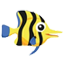
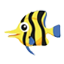
Pecera v0.0.2 - Fixing head  orientation for each fish

diff --git a/Pecera/pez.js b/Pecera/pez.js
@@ -9,8 +9,6 @@ class Pez {
         this.location = createVector(random(0,width),random(0,height));
         this.velocity = createVector();
         this.acceleration = createVector();
-        this.angle = 0;
-        this.headOrientation = 1;
         
         this.imgPez = imgsPeces[this.name];
         this.historyLocation;
@@ -28,11 +26,9 @@ class Pez {
         
         fill(this.color.r, this.color.g, this.color.b);
         translate(this.location.x, this.location.y); //this translate all the canvas
-        rotate(this.angle) // this rotate all the canvas
         imageMode(CENTER); 
         scale(this.headOrientation, 1);
         image(this.imgPez, 0, 0); // Print the image on x:0 and y:0 from translated and rotated canvas
-        
         
         //circle(this.location.x, this.location.y, this.radius);
         //rectMode(CENTER)
@@ -87,20 +83,20 @@ class Pez {
         }
     }
 
-    headOrientation(){
-        var posX = Math.ceil(this.location.x);
+    getOrientation(){
+        var actualPosX = Math.ceil(this.location.x);
         
-        if (this.historyLocation == ''){
-            this.historyLocation = posX;
+        if (this.historyLocation == undefined){
+            this.historyLocation = actualPosX;
         }
         
-        console.log(posX, this.historyLocation)
-        if (posX <= this.historyLocation) {
-            this.angle = 0;
-        } else {
-            this.angle = 180;
+        if (actualPosX < this.historyLocation) {
+            this.headOrientation = 1;
+        } 
+        if (actualPosX > this.historyLocation) {
+            this.headOrientation = -1;
         }
-        this.historyLocation = posX;
+        this.historyLocation = actualPosX;
     }
 
     keyboardControl(){

diff --git a/Pecera/sketch.js b/Pecera/sketch.js
@@ -11,7 +11,7 @@ var pecesArr = [];
 var bubblesArr = [];
 var world = {};
 var cantPeces = 15;
-var cantBubbles = 50;
+var cantBubbles = 80;
 
 // Precarga de imagenes
 var backgroundImage;
@@ -33,7 +33,7 @@ function setup(){
     canvasW = ratioObj.width;
 
     createCanvas(canvasW, canvasH);
-    
+
     background(51);
 
     angleMode(DEGREES);
@@ -64,6 +64,7 @@ function draw(){
         pecesArr[i].applyForce(createVector(0, map(random(0,100), 0 , 100, -0.02, 0.02)));
         pecesArr[i].applyForce(createVector(map(random(0,100), 0 , 100, -0.09, 0.09), 0));
         pecesArr[i].edgesBounce();
+        pecesArr[i].getOrientation();
         //pecesArr[i].edgesInfinite();
         pecesArr[i].update();
         pecesArr[i].show();

diff --git a/Pecera/bubbles.js b/Pecera/bubbles.js
@@ -35,16 +35,16 @@ class Bubbles {
 
     edgesInfinite(){
         if (this.location.x >= width+this.radius) {
-            this.location.mult(createVector(0,0));
+            this.location.mult(0);
             this.location.x = -this.radius;
         }
         if (this.location.x < -this.radius) {
-            this.location.mult(createVector(0,0));
+            this.location.mult(0);
             this.location.x = width+this.radius;
         }
 
         if (this.location.y < -this.radius) {
-            this.location.mult(createVector(0,0));
+            this.location.mult(0);
             this.location.y = height+this.radius;
         }
     }

diff --git a/Pecera/peces.js b/Pecera/peces.js
@@ -4,7 +4,7 @@ var peces = [
         "mass": 5,
         "maxVelocity":2,
         "color": {r:125,g:255,b:51},
-        "headOrientation": 1,
+        "headOrientation": -1,
         "img": "img/Pez1.png"
     },
     {
